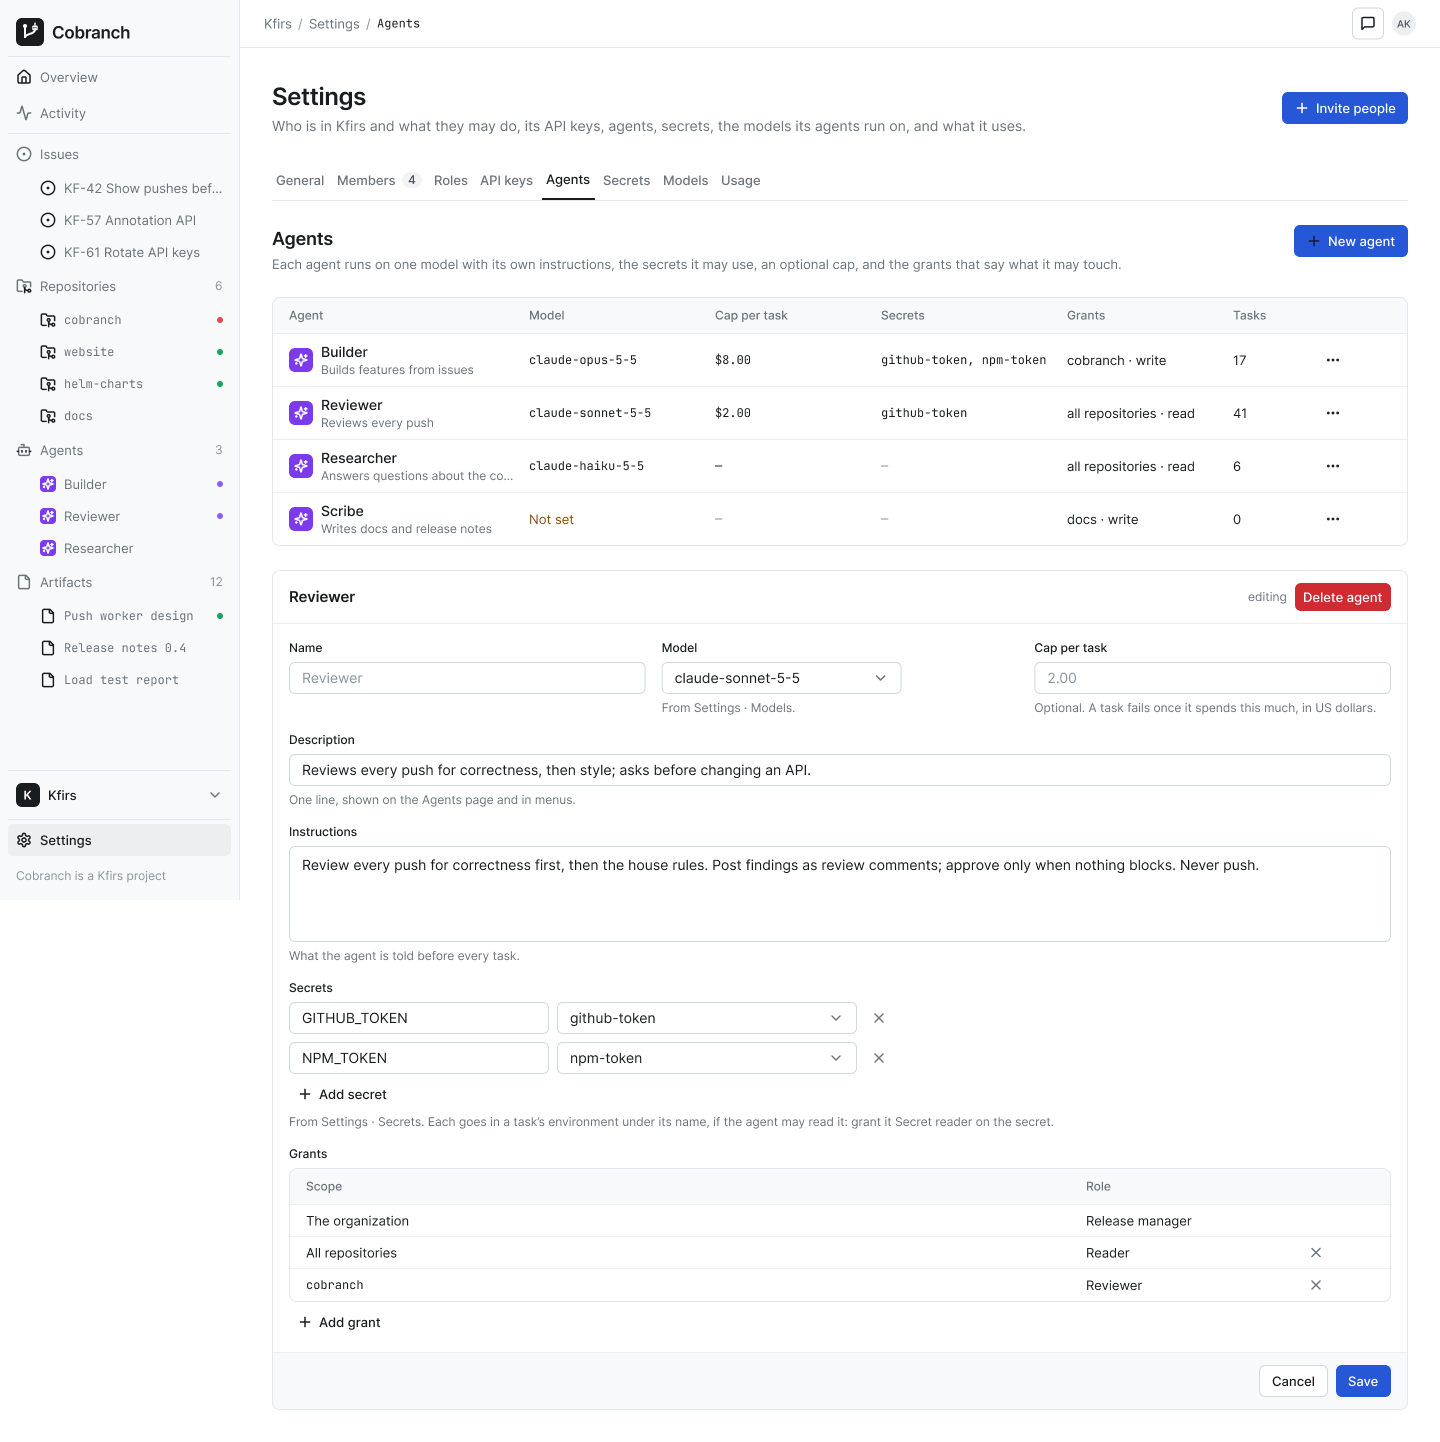
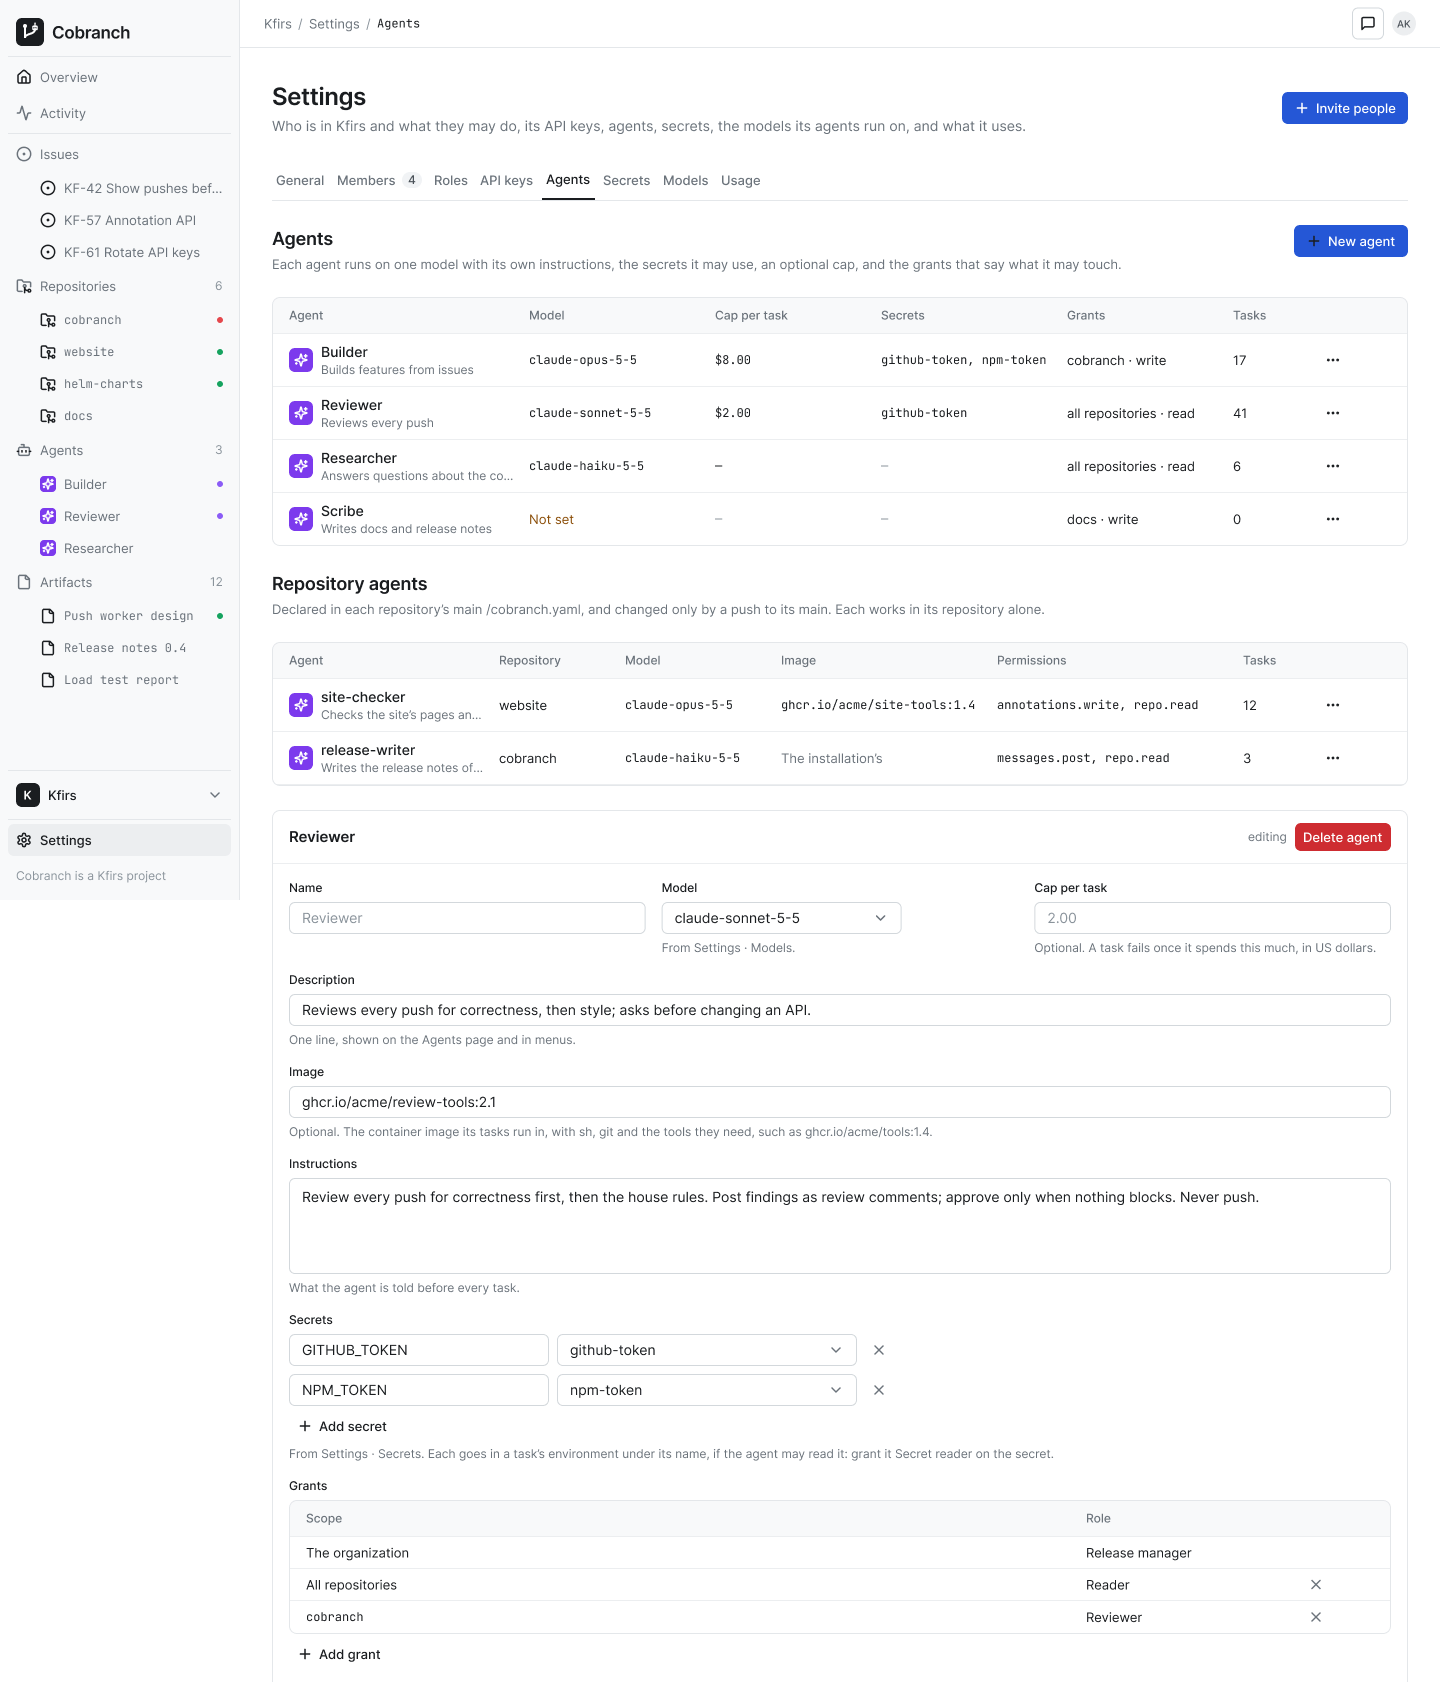
fix(console): offer an issue only the agents of its repository
The new issue form listed every repository's agents whatever the issue
was about, and the API refuses an agent outside its repository. It now
offers the agents that work in the chosen repository, again whenever
that changes. Assign to an agent shows only when an agent can take the
issue. The design system's snapshot lists the three new screens and
monitoring's page views name repository.agents.

Claude-Session: https://claude.ai/code/session_01UQFik7MA5NmakgWpaQtjeG

diff --git a/web/console/public/assets/pages/org/issues.js b/web/console/public/assets/pages/org/issues.js
@@ -96,9 +96,18 @@ async function showNewIssue(org, main, can) {
   const title = input({ name: "title", required: true, maxlength: 200, placeholder: "Show pushes before the worker finishes" });
   const description = textarea({ name: "description", rows: 4, maxlength: 65536 });
   const assign = can("agents.assign");
-  const assignee = h("select", { name: "assigneeId" }, h("option", { value: "" }, "Nobody yet"),
-    members.map((m) => h("option", { value: m.userId }, m.displayName + (m.userId === me.id ? " (you)" : ""))),
-    assign ? agents.filter((a) => !a.retiredAt).map((a) => h("option", { value: a.id }, a.name + (a.repositorySlug ? " · " + a.repositorySlug + "'s agent" : " · agent"))) : null);
+  // offer lists who may take the issue: its members, and the agents that work in the repository it is about, drawn
+  // again when that changes, keeping the choice while it is still offered.
+  const assignee = h("select", { name: "assigneeId" });
+  const offer = () => {
+    const chosen = assignee.value;
+    assignee.replaceChildren(h("option", { value: "" }, "Nobody yet"),
+      ...members.map((m) => h("option", { value: m.userId }, m.displayName + (m.userId === me.id ? " (you)" : ""))),
+      ...(assign ? agents.filter((a) => worksIn(a, repository.value || undefined)).map((a) => h("option", { value: a.id }, a.name + (a.repositorySlug ? " · " + a.repositorySlug + "'s agent" : " · agent"))) : []));
+    assignee.value = [...assignee.options].some((o) => o.value === chosen) ? chosen : "";
+  };
+  offer();
+  repository.addEventListener("change", offer);
   const named = input({ name: "labels", placeholder: labels.slice(0, 2).map((l) => l.name).join(", ") || "bug, docs", autocomplete: "off" });
   const create = h("button", { class: "btn btn-primary", type: "submit" }, "Create issue");
   main.replaceChildren(error.el, h("form", { class: "card new-issue", onsubmit: async (e) => {
@@ -178,7 +187,7 @@ async function showIssue(org, main, can, identifier, notice) {
       : h("p", { class: "page-header-description" }, write ? "No description yet. Edit adds one." : "No description."),
     branchesCard(org, issue, branches), issueActivity(issue, events)),
     h("aside", { class: "issue-side" }, h("section", { class: "card" }, h("div", { class: "facts" }, issueFacts(page))),
-      write && can("agents.assign") && choices.agents.length ? assignToAgent(page) : null)));
+      write && can("agents.assign") && choices.agents.some((a) => worksIn(a, issue.repository?.id)) ? assignToAgent(page) : null)));
   const still = () => error.el.isConnected;
   followLists([[path, read.tag], [path + "/activity", activity.tag], [path + "/branches", linked.tag]], still,
     () => drawAgain(() => showIssue(org, main, can, issue.identifier), still), { gone: true });

diff --git a/docs/cobranch/designs/design-system.md b/docs/cobranch/designs/design-system.md
@@ -24,7 +24,7 @@ the screens are [ENG-200](https://linear.app/arikkfir/issue/ENG-200); bringing i
 | Foundations | Principles, colour in light and dark, type scale, spacing, radii, elevation, layout |
 | Icons | 70 Lucide icons as components |
 | Components | 58 components: controls, badges, tags, avatars, menus, tables, cards, meters, counters, charts, dialogs, the app shell, list rows, brand |
-| Screens | 70 screens: sign-in, sign-up, the organization's pages, the repository's, the branch (light and dark), the issue's, the agents', artifacts and settings |
+| Screens | 73 screens: sign-in, sign-up, the organization's pages, the repository's, the branch (light and dark), the issue's, the agents', artifacts and settings |
 
 ## Principles
 
@@ -340,7 +340,7 @@ only cue.
 
 ## Screens
 
-Seventy screens on the Screens page, at 1440 wide unless named for a narrower one, and built only from library instances. They follow one
+Seventy-three screens on the Screens page, at 1440 wide unless named for a narrower one, and built only from library instances. They follow one
 organization, Kfirs, its repositories and its three agents: Builder implements issues, Reviewer reviews every push, and
 Researcher waits for a task.
 
@@ -395,11 +395,14 @@ Researcher waits for a task.
 | [Agent](https://www.figma.com/design/ZJVoycorwQStSjh89hnSrK/Cobranch?node-id=64-2654) | Working on, Queue and History of its tasks, its settings, and your private chat with it |
 | [Agent · Task](https://www.figma.com/design/ZJVoycorwQStSjh89hnSrK/Cobranch?node-id=81-4443) | One task: its transcript of turns and tool calls, what it came from, and its spend against the cap |
 | [Agent · Empty](https://www.figma.com/design/ZJVoycorwQStSjh89hnSrK/Cobranch?node-id=95-5663) | An agent with no tasks yet |
+| [Agent · Repository](https://www.figma.com/design/ZJVoycorwQStSjh89hnSrK/Cobranch?node-id=263-40209) | An agent a repository's main `/cobranch.yaml` declares: where, Open /cobranch.yaml instead of Edit, and its repository, image and permissions |
+| [Agent · Retired](https://www.figma.com/design/ZJVoycorwQStSjh89hnSrK/Cobranch?node-id=263-40706) | A repository's agent its file no longer declares: Retired, no Assign a task, its History alone and no model |
 | [Repository · Settings](https://www.figma.com/design/ZJVoycorwQStSjh89hnSrK/Cobranch?node-id=138-16990) | Settings as tabs General, Access and Secrets; the repository's name, URL name and description, and its visibility, which its grants decide |
 | [Repository · Settings · Access](https://www.figma.com/design/ZJVoycorwQStSjh89hnSrK/Cobranch?node-id=215-30550) | Every role that reaches the repository, a row each: who, the role, Direct or the organization's role it comes through, since when; Revoke on the direct ones |
 | [Repository · Settings · Access · Grant role](https://www.figma.com/design/ZJVoycorwQStSjh89hnSrK/Cobranch?node-id=224-34472) | Granting a member, API key or agent one of the repository's roles, in a dialog |
 | [Repository · Settings · Secrets](https://www.figma.com/design/ZJVoycorwQStSjh89hnSrK/Cobranch?node-id=215-30983) | The repository's own secrets, which its jobs read beside the organization's |
 | [Repository · Issues](https://www.figma.com/design/ZJVoycorwQStSjh89hnSrK/Cobranch?node-id=138-16506) | The organization's issues about the repository, under tabs Open, Closed and All, filtered by assignee and label |
+| [Repository · Agents](https://www.figma.com/design/ZJVoycorwQStSjh89hnSrK/Cobranch?node-id=263-39603) | The agents the repository's main `/cobranch.yaml` declares: model, image, secrets, permissions and tasks, and those retired |
 | [Repository · Artifacts](https://www.figma.com/design/ZJVoycorwQStSjh89hnSrK/Cobranch?node-id=75-3941) | What agents generated for the repository: documents, diagrams, reports and pages |
 | [Artifact](https://www.figma.com/design/ZJVoycorwQStSjh89hnSrK/Cobranch?node-id=75-4455) | The document, About, Access and Versions; Share, Download and Edit |
 | [Settings · General](https://www.figma.com/design/ZJVoycorwQStSjh89hnSrK/Cobranch?node-id=107-7859) | Settings as tabs; the organization's name, slug and issue key, who joins with what role, its identity providers, and the Danger zone that deletes it |
@@ -412,7 +415,7 @@ Researcher waits for a task.
 | [Settings · Secrets](https://www.figma.com/design/ZJVoycorwQStSjh89hnSrK/Cobranch?node-id=109-9367) | The organization's own secrets, which its repositories' jobs share |
 | [Settings · Secrets · Add secret · Long value](https://www.figma.com/design/ZJVoycorwQStSjh89hnSrK/Cobranch?node-id=254-39928) | Adding a secret whose value is long (a kubeconfig): the value scrolls inside its field, which stops at 320px, and the dialog keeps its actions in reach |
 | [Settings · Usage](https://www.figma.com/design/ZJVoycorwQStSjh89hnSrK/Cobranch?node-id=109-9789) | What the organization uses against the installation's limits, and each repository's Git data |
-| [Settings · Agents](https://www.figma.com/design/ZJVoycorwQStSjh89hnSrK/Cobranch?node-id=95-6091) | The organization's agents and their settings |
+| [Settings · Agents](https://www.figma.com/design/ZJVoycorwQStSjh89hnSrK/Cobranch?node-id=95-6091) | The organization's agents and their settings, then its repositories' agents, read-only |
 | [Settings · Models](https://www.figma.com/design/ZJVoycorwQStSjh89hnSrK/Cobranch?node-id=71-3605) | Providers (a secret and the models it serves) and models with their prices, the agents on each and the default; no cap, which is each agent's |
 | [Settings · Models · Add model](https://www.figma.com/design/ZJVoycorwQStSjh89hnSrK/Cobranch?node-id=92-4735) | Adding a model, in a dialog |
 | [Settings · Models · Empty](https://www.figma.com/design/ZJVoycorwQStSjh89hnSrK/Cobranch?node-id=92-4960) | Models before any provider is added |

diff --git a/docs/cobranch/designs/monitoring.md b/docs/cobranch/designs/monitoring.md
@@ -61,7 +61,7 @@ Every metric carries the workload's resource, as traces do: `service.name` the w
 
 | Attribute | Values |
 | --- | --- |
-| `cobranch.console.page` | `sign-in`, `welcome`, `settings`, `help`, `help.components`, `organization`, `organization.members`, `organization.roles`, `organization.api-keys`, `organization.settings`, `organization.new-repository`, `organization.issues`, `organization.agents`, `organization.agents-activity`, `organization.agents-quotas`, `organization.agent`, `organization.agent-task`, `organization.tasks`, `organization.secrets`, `organization.usage`, `organization.artifacts`, `repository.code`, `repository.file`, `repository.commits`, `repository.commit`, `repository.branches`, `repository.branch`, `repository.changes`, `repository.runs`, `repository.environments`, `repository.issues`, `repository.secrets`, `repository.access`, `repository.settings`, `repository.artifacts` |
+| `cobranch.console.page` | `sign-in`, `welcome`, `settings`, `help`, `help.components`, `organization`, `organization.members`, `organization.roles`, `organization.api-keys`, `organization.settings`, `organization.new-repository`, `organization.issues`, `organization.agents`, `organization.agents-activity`, `organization.agents-quotas`, `organization.agent`, `organization.agent-task`, `organization.tasks`, `organization.secrets`, `organization.usage`, `organization.artifacts`, `repository.code`, `repository.file`, `repository.commits`, `repository.commit`, `repository.branches`, `repository.branch`, `repository.changes`, `repository.runs`, `repository.environments`, `repository.issues`, `repository.secrets`, `repository.access`, `repository.settings`, `repository.artifacts`, `repository.agents` |
 | `cobranch.console.navigation` | `load`, the browser loading the Console, from its navigation's start; `route`, a move inside it, from the click or Back |
 | `http.route` | The route's pattern, such as `/v1/orgs/{org}/repos/{repo}/tree`; `/` for a path no route serves |
 | `graphql.operation.type` | `query` or `mutation`; a subscription's stream isn't timed |
